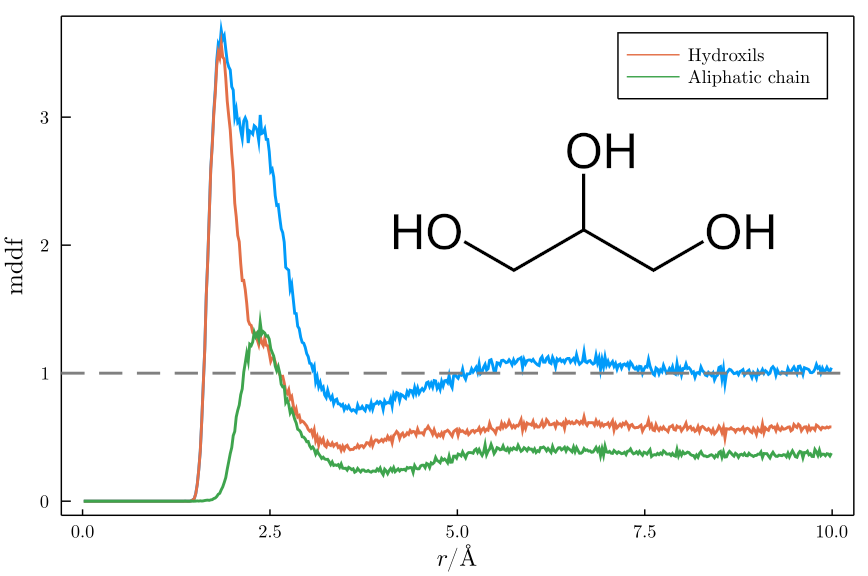
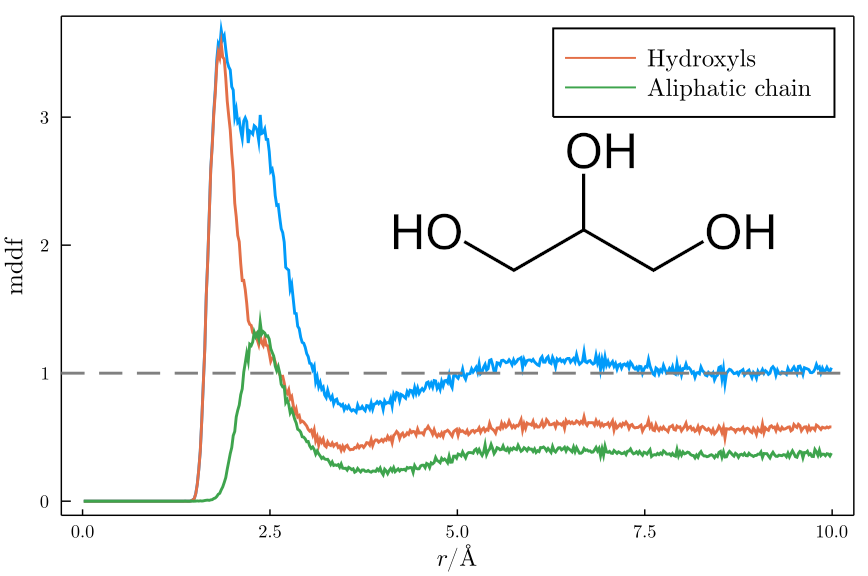
up docs

Changed region(s): [[0.6221, 0.0312, 0.9643, 0.2188]]

diff --git a/MDDF/README.md b/MDDF/README.md
@@ -80,6 +80,8 @@ Results are loaded, and now we can plot the data obtained.
 
 ## Produce plots
 
+### MDDF and Kirkwood-Buff integrals
+
 Load some packages that we will use to produce the plots:
 ```julia
 using Plots, Plots.PlotMeasures, LaTeXStrings
@@ -108,17 +110,41 @@ This will produce the following plot:
 
 <img width=100% src="./mddf.png">
 
-# Atomic contributions to the MDDF
-hydroxils = ["O1","O2","O3","H1","H2","H3"]
-hydr_contrib = CM.contrib(solvent,results.solvent_atom,hydroxils)
-aliphatic = ["C1","C2","HA","HB","HC","HD"]
-aliph_contrib = CM.contrib(solvent,results.solvent_atom,aliphatic)
+### Atomic contributions to the MDDF
 
+Selecting the atoms corresponding to the hydroxyl groups, and of the aliphatic carbons of Glycerol. Here we list the types of the atoms as specified by the force-field.
+```julia
+hydroxyls = ["O1","O2","O3","H1","H2","H3"]
+aliphatic = ["C1","C2","HA","HB","HC","HD"]
+```
+
+The `contrib` function of `ComplexMixtures` will extract from the result the contributions of each set of atoms to the total MDDF:
+
+```julia
+hydr_contrib = CM.contrib(solvent,results.solvent_atom,hydroxyls)
+aliph_contrib = CM.contrib(solvent,results.solvent_atom,aliphatic)
+```
+
+And, finally, here we plot these group contributions on top of the total MDDF:
+
+```julia
 plot(results.d,results.mddf,xlabel=L"r/\AA",ylabel="mddf",size=(600,400))
 plot!(results.d,hydr_contrib,label="Hydroxils")
 plot!(results.d,aliph_contrib,label="Aliphatic chain")
 hline!([1],linestyle=:dash,linecolor=:gray)
 savefig("./mddf_atom_contrib.pdf")
+```
+
+This will produce the following figure:
+
+<img width=70% src="./mddf_atom_contrib.png">
+
+Note how hydroxyl clearly are the sole contribution to the peak at ~1.9 Angstroms, corresponding to hydrogen-bonding interactions. The aliphatic groups contribute importantly to the shoulder at larger distances, which correspond to non-specific interactions. 
+
+
+
+
+
 
 
 
